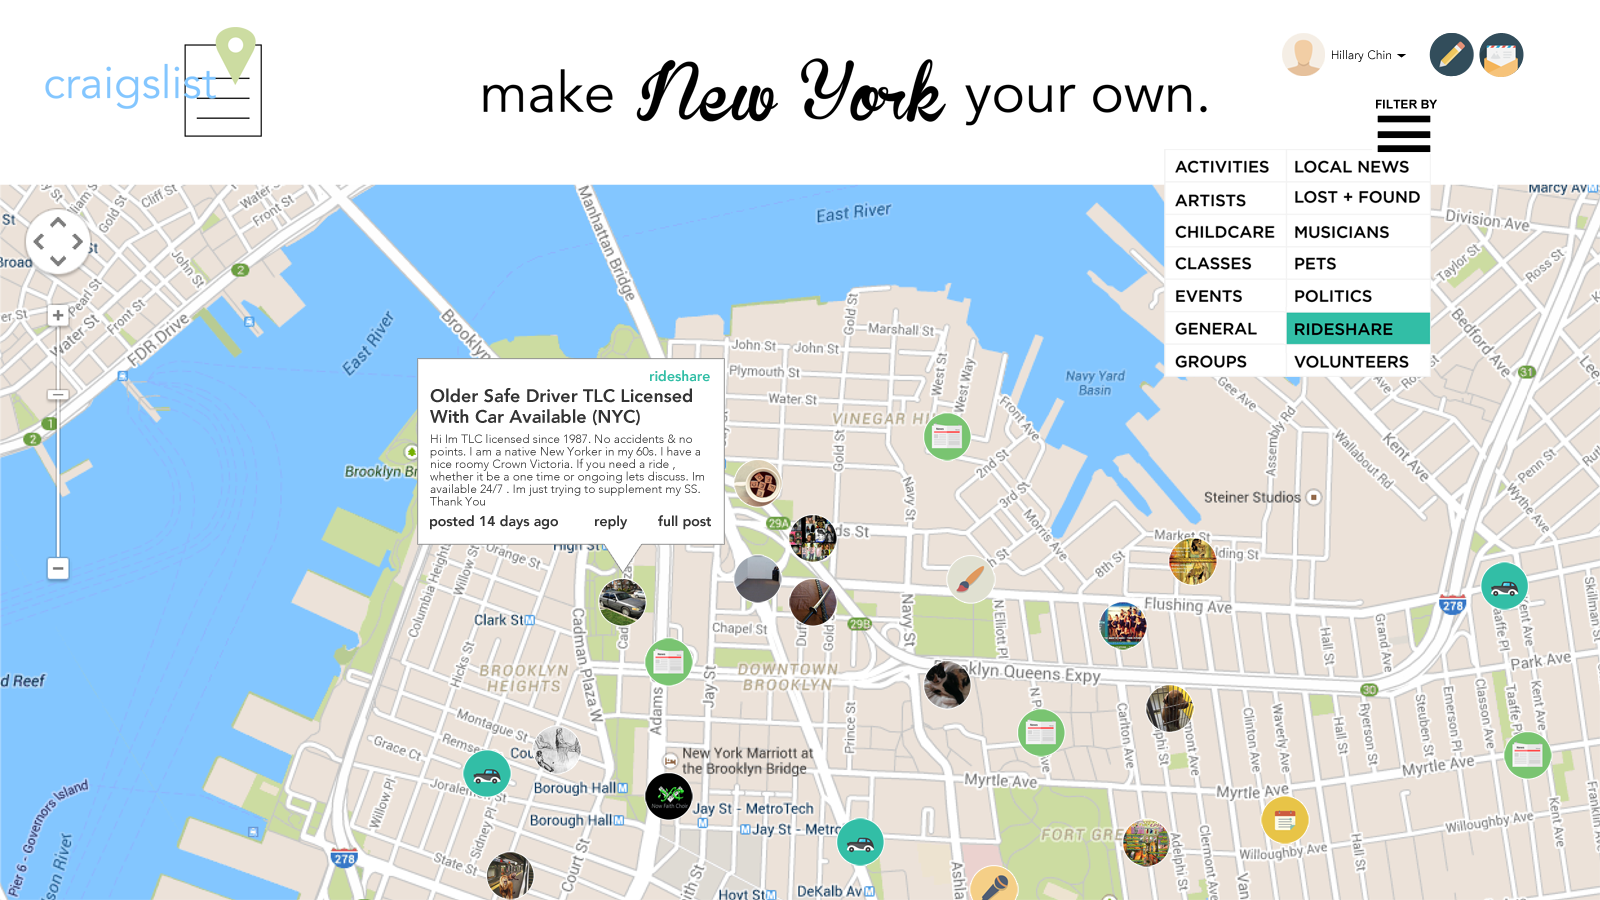
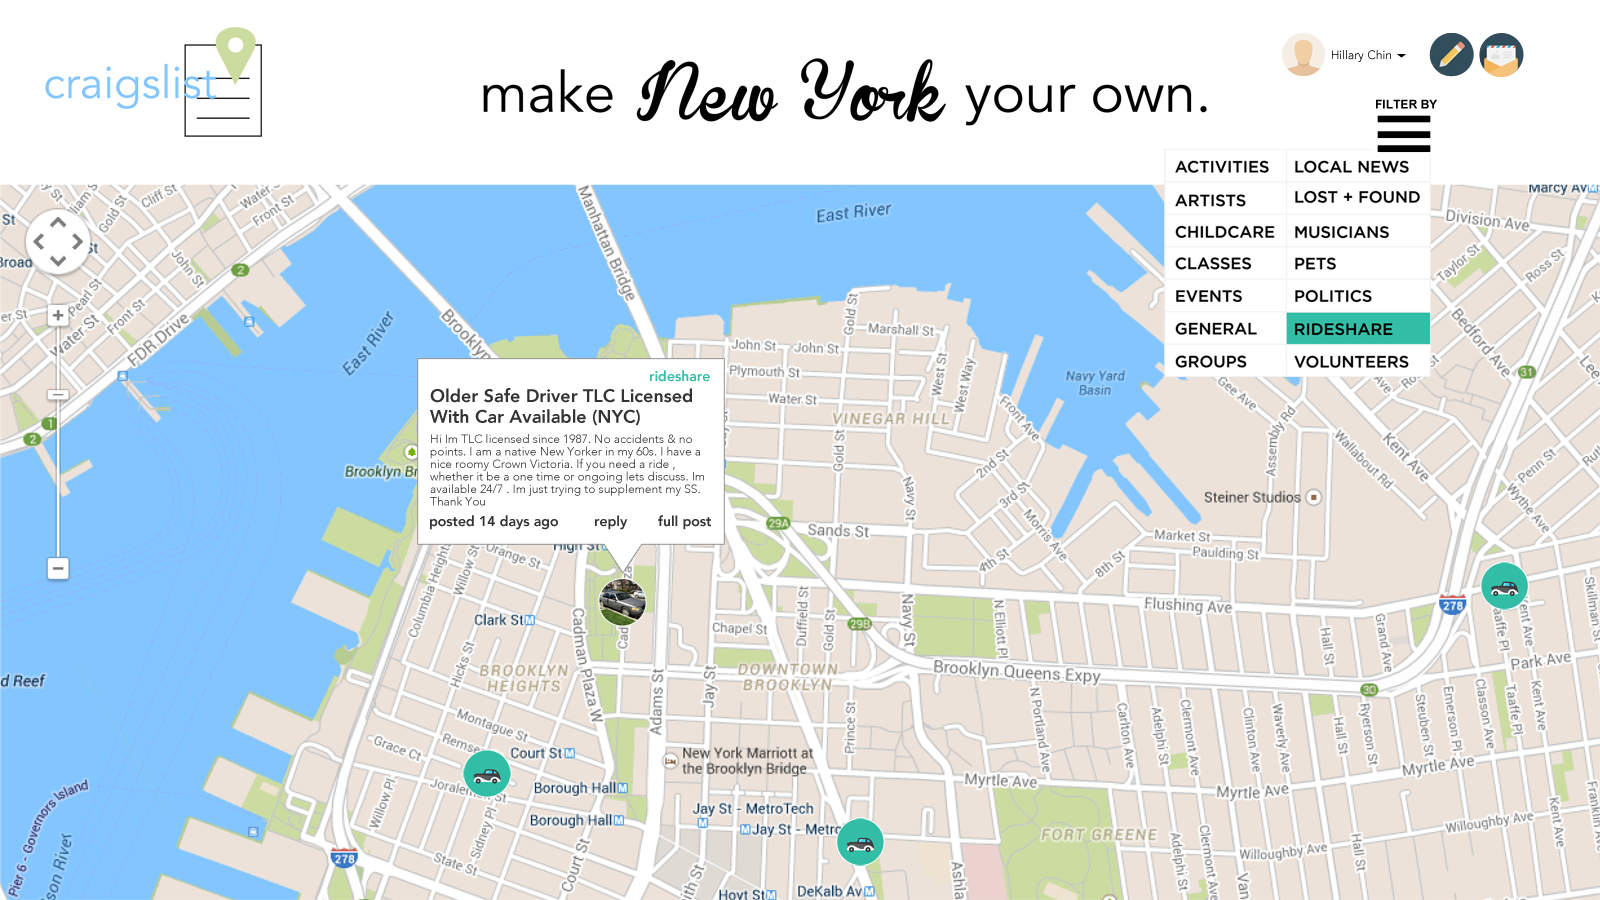
Learning log and javascript etc

diff --git a/awesome-web-class/chin_hillary/learning_log/midterm.html b/awesome-web-class/chin_hillary/learning_log/midterm.html
@@ -1,0 +1,57 @@
+<!DOCTYPE html>
+<html>
+<head>
+    <meta charset="UTF-8">
+    <title>Learning Log</title>
+
+    <link rel="stylesheet" type="text/css" href="../styles/styles.css">
+
+    <script type="text/javascript" src="/js/jquery.1.8.3.min.js"></script>
+    <link rel="shortcut icon" href="/img/favicon.ico">
+
+    <link href='http://fonts.googleapis.com/css?family=Open+Sans:400,800,700,600' rel='stylesheet' type='text/css'>
+
+     <script>$(function () { $('a[href*=#]:not([href=#])').click(function () { if (location.pathname.replace(/^\//, '') == this.pathname.replace(/^\//, '') && location.hostname == this.hostname) { var target = $(this.hash); target = target.length ? target : $('[name=' + this.hash.slice(1) + ']'); if (target.length) { $('html,body').animate({ scrollTop: target.offset().top }, 1000); return false; } } }); });</script>
+
+</head>
+<body>
+    <div class="midterm-container">
+        <address><a href="../">&#8592; Go Back to Learning Log</a></address>
+
+        <h1 class="title">Midterm</h1>
+
+        <p>My redesign of Craigslist focuses on the community section of the current website. It narrows the website down to one of its main focal points, which is location-based listings. The goal of my redesign is to give users the ability to immerse themselves into their own city and personally connect with the people, things, and happenings around them. Its intention is to give everyday people an easy way to always find something to do, buy, learn, or meet in their area. Maps are a major component of the interface as they provide an intuitive way for users to browse and locate whatever they desire. My concept also completely rebrands the company with a new logo and website design that is fresh, attractive, and modern. My goal with the design was to achieve minimalism and simplicity while using colors, images, and icons to keep it interesting and friendly. It also eliminates the jumbled mess of a navigation the current Craigslist uses by ridding of all the lists and replacing it with a map that displays images, icons, and summaries.</p>
+
+        <br><br>
+
+        <img src="img/craigslistwireframe1.png">
+        <img src="img/craigslistdesign1.png">
+        <img src="img/craigslistmockup.png">
+        <p class="img-desc">The layout for the homepage is simple. Users are greeted with a header and a map that fills up the whole size of their browser. The header contains the Craigslist logo on the upper left hand corner, a randomized tagline that displays the user's location in the center with a search bar below it, and a drop-down menu on the upper right hand corner that filters results on the map. By default when the page loads, the map displays all available listings from every category.</p>
+
+        <br><br>
+
+        <img src="img/craigslistwireframe2.png">
+        <p class="img-desc">The homepage wireframe, but with a different location and tagline.</p>
+
+        <br><br>
+
+        <img src="img/craigslistwireframe4.png">
+        <img src="img/craigslistdesign2.png">
+        <img src="img/craigslistdesign3.png">
+        <p class="img-desc">When a user clicks a category in the filter results menu, the result image circles on the map display only the results from the chosen category. Each category is color coded. Results with no image displays a default icon for that category. The category's icon background color, the hover color when choosing a category from the filter menu, and the text color of the pop-up box that shows when you click on a result all match the category's color.</p>
+
+        <br><br>
+
+        <img src="img/craigslistwireframe3.png">
+        <img src="img/craigslistdesign5.png">
+        <img src="img/craigslistmockup2.png">
+        <p class="img-desc">The full post view of a listing.</p>
+
+        <br><br>
+
+        <p>Things to add in the future: Different views (list view, gallery view), responsive designs, other suggestions people give in class~</p>
+    </div>
+
+</body>
+</html>

diff --git a/awesome-web-class/chin_hillary/shitjohnnysays.html b/awesome-web-class/chin_hillary/shitjohnnysays.html
@@ -1,0 +1,106 @@
+<!DOCTYPE html>
+<script type="text/javascript" language="javascript" src="http://assets.tumblr.com/assets/scripts/pre_tumblelog.js?_v=75ff60d174af47d7ea271d82d4fe1151"></script>
+<script src="http://assets.tumblr.com/assets/scripts/tumblelog.js?_v=129874daf82ea8718007ffa601fae0cb"></script>
+<html xmlns="http://www.w3.org/1999/xhtml" xml:lang="en" lang="en">
+<head>
+	<meta http-equiv="Content-Type" content="text/html; charset=utf-8" />
+    <title>Shit Johnny Says</title>
+
+    <link href='http://fonts.googleapis.com/css?family=Oswald:400,300,700' rel='stylesheet' type='text/css'>
+
+	<script type="text/javascript">	
+		function generator(){
+
+            var quoteslist = ["Tell me 3 problems you hate about Craigslist and communicate them to me, like 'fuck these problems'", "Someone should make a Tumblr with all the shit I say", "I accidentally deleted my desktop", "Everything was terrible in 2009", "Have you ever had a Krispy Kreme donut off the conveyer belt? It like goes off the conveyer belt into your soul", "Javascript is amazing it's like this thing is going to make me taller and better looking", "Tumblr is slow as shit"]
+
+            var randomquote = quoteslist[Math.floor(Math.random()*quoteslist.length)];
+			
+			if(document.getElementById("result")){
+				document.getElementById("placeholder").removeChild(document.getElementById("result"));
+			}
+			
+			var element = document.createElement("div");
+			element.setAttribute("id", "result");
+			element.appendChild(document.createTextNode(randomquote));
+			document.getElementById("placeholder").appendChild(element);
+		}	
+
+
+	</script>
+<!-- Stylesheet CSS -->
+<style type="text/css"> 
+body {
+    text-align:left;
+    line-height:150%;
+    color:#fff;
+    background-color:#000;
+    font-family:Arial, 'Helvetica Neue', Helvetica, sans-serif;
+    font-size: 11px; 
+    margin:0px;
+    background-image:url('https://38.media.tumblr.com/c42ce0cd442f64d02a5404dcf261e7ec/tumblr_nbz2v2Zffi1tjsogwo1_500.gif');
+}
+a:link, a:active, a:visited{
+    color: #177c8e; 
+    text-decoration: none;
+    font-family:Arial, 'Helvetica Neue', Helvetica, sans-serif;
+}
+a:hover{
+    color:#000; 
+    text-decoration: none;
+    font-family:Arial, 'Helvetica Neue', Helvetica, sans-serif;
+}
+p{
+    text-align:center;
+}
+.content{
+    position: relative;
+    border:0px;
+    margin:0 auto;
+    padding: 60px 20px 0px;
+    width: 700px;
+}
+.content-photo{
+    margin:0 auto;
+    display:block;
+}
+.generator{
+    width:650px;
+    font-family: 'Open Sans';
+    font-weight: 300;
+    border:0px solid #cccccc;
+    margin:0 auto;
+    font-size:2em;
+    line-height:200%;
+    padding:60px 0 20px;
+    text-align:center;
+}
+.generator input{
+    font-size:14px;
+    font-weight:normal;
+    margin-top: 40px;
+    padding:10px;
+    background-color:#fff;
+    font-family:'Open Sans', sans-serif;
+}
+.title{
+    font-family: 'Open Sans', sans-serif;
+    font-weight:700;
+    text-transform:uppercase;
+    font-size:3em;
+}
+</style>
+</head>
+<body onload="generator()">
+	<div class="content">
+        <img class="content-photo" src="images/cat.gif"><br>
+            <div class="title"><center>Shit My Web Dev Professor Says</center></div>		
+    		<!-- Generator result -->
+    		<div class="generator" >
+    			<div id="placeholder"></div>
+    			<input type="button" value="More quotes" onclick="generator()" />		
+    		</div>
+        <p>Made with the help of the <a href="http://www.name-generators.com/name-generators/how-to-make-name-generator.htm">name generator script tutorial</a> and <a href="http://benedictcumberbatchgenerator.tumblr.com">Benedict Cumberbatch Name Generator</a></p>
+	</div>
+
+</body>
+</html>

diff --git a/awesome-web-class/chin_hillary/learning_log/index.html b/awesome-web-class/chin_hillary/learning_log/index.html
@@ -30,6 +30,7 @@
                     <li><a href="#24-feb-2015">Four</a></li>
                     <li><a href="#3-mar-2015">Five</a></li>
                     <li><a href="#12-mar-2015">Six</a></li>
+                    <li><a href="#26-mar-2015">Seven</a></li>
                 </ul>
             </li>
             <li><a href="recipe">Recipe</a></li>
@@ -53,9 +54,53 @@
         <hr>
         <a href="recipe"><img src="images/cookies.png" alt="Recipe"/></a>
         <a href="css-examples/blue-box.html"><img src="images/cssexercise.png" alt="CSS Exercises"/></a>
+        <a href="midterm"><img src="images/midterm.png" alt="Midterm"/></a>
+        <a href="shitjohnnysays.html"><img src="images/shitprofsays.png" alt="Shit My Web Dev Professor Says"/></a>
     </aside>
 
     <section class="main-content">
+
+        <article id="26-mar-2015">
+            <div class="entry-date">26 March 2015</div>
+            <h4>Introduction to Javascript</h4>
+            <section>
+                <h5>Notes</h5>
+                <p>
+                    Javascript is a scripting language which means it's not compiled - parsed by the environment (browser or server). Lets you dynamically change the webpage (DOM, CSS) without reloading the page. Makes the page reactive to certain events. Used for user interface i.e. lightbox, map. If there are errors, Javascript stops execution.
+                </p>
+            </section>
+            <section>
+                <h5>Links</h5>
+                <p><a href="shitjohnnysays.html">I followed through and made a page to dump the funny shit the professor says</a></p>
+            </section>
+           <section>
+                <h5>Misc</h5>
+                <p>ineedsleep</p>
+            </section>
+        </article>
+
+        <hr/>
+
+        <article id="24-mar-2015">
+            <div class="entry-date">24 March 2015</div>
+            <h4>Midterm Presentation</h4>
+            <section>
+                <h5>Notes</h5>
+                <p>
+                    Final deadline to turn in all deliverables is next Tuesday, March 31.
+                </p>
+            </section>
+            <section>
+                <h5>Links</h5>
+                <p><a href="shitjohnnysays.html">I followed through and made a page to dump the funny shit the professor says</a></p>
+            </section>
+           <section>
+                <h5>Misc</h5>
+                <p>ineedsleep</p>
+            </section>
+        </article>
+
+        <hr/>
 
         <article id="12-mar-2015">
             <div class="entry-date">12 March 2015</div>

diff --git a/awesome-web-class/chin_hillary/learning_log/intro_to_js/index.html b/awesome-web-class/chin_hillary/learning_log/intro_to_js/index.html
@@ -1,0 +1,81 @@
+<!DOCTYPE html>
+<html>
+<head>
+    <meta charset="UTF-8">
+    <title>JS Examples</title>
+</head>
+<body>
+
+    <img id="cookie" src="images/cookies.png" width="361" height="361" alt="cookies"/>
+
+    <script>
+    	//This where Javascript happens
+    	/* Global Objects
+    	 	-Window
+    	 	-Docmument
+    	 	-Console
+		
+    	 Global Methods
+    		-Alert
+    		-Prompt
+
+    	 Objects
+    		 -Constructor
+    		 -Instance
+
+    	"Everything in Javascript is a function"
+    	""
+		*/
+
+    	/*
+    	alert('hahahaha');
+    	alert("doing it this way"); //No double quotes pls
+    	window.alert('this is also works hahaahahha	:');
+ 
+    	var stuff = prompt('what say u?');
+    	console.log(stuff);
+    	*/
+
+    	/* We want to be able to grab elements from the page i.e.) make a carousel, clicking elements make other elements move
+
+    	Stuff Javascript does:
+    	-Listen for events
+    	-Grab elements
+    	-Functions
+    	-Closures
+    	-Scope
+    	-Manipulating the DOM
+
+    	-jQuery makes your life easier, it's a library built from Javascript. It is not javascript, but it is based on it
+		*/
+
+		//Events
+		alert('before');
+
+		/*window.onload = function(){
+			alert('after');
+		}*/
+
+		document.addEventListener('DOMContentLoaded', function(event){
+			alert('in between');
+		});
+
+		document.addEventListener('DOMContentLoaded', function(event){
+			alert('again');
+		});
+
+		document.addEventListener('DOMContentLoaded', function(event){
+			alert('and again');
+		});
+
+		/*window,onload = function(){
+			alert('oops');
+		}
+		*/
+/*
+		window.addEventListener('load', function(){
+			alert
+		}*/
+    </script>
+</body>
+</html>

diff --git a/awesome-web-class/chin_hillary/learning_log/intro_to_js/styles/styles.css b/awesome-web-class/chin_hillary/learning_log/intro_to_js/styles/styles.css
@@ -1,0 +1,49 @@
+/*
+    Parsed Top Down 
+    Specificity
+    Cascade
+
+
+    General Selectors
+    | |
+    | |
+    | |
+     V
+    Specific Selectors
+
+ */
+
+/*
+    Star selector selects every element
+    It can be slightly inefficient
+
+    Used for lightweight "Reset" Styles
+ */
+
+* {
+    margin: 0;
+    padding: 0;
+    font-size: 100%;
+    font-weight: normal;
+}
+
+html {
+
+}
+
+body {
+    background-color: green;
+    margin: 20px;
+}
+
+.ll-header {
+    font-size: 150%;
+}
+
+.ll-nav {
+
+}
+
+.ll-article {
+
+}
